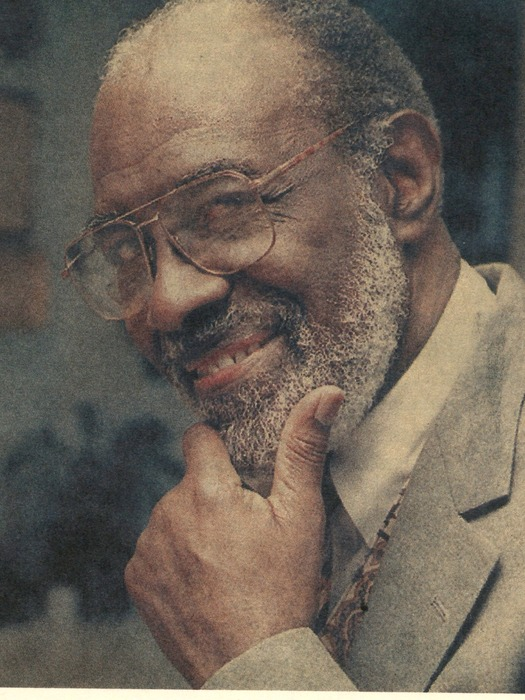
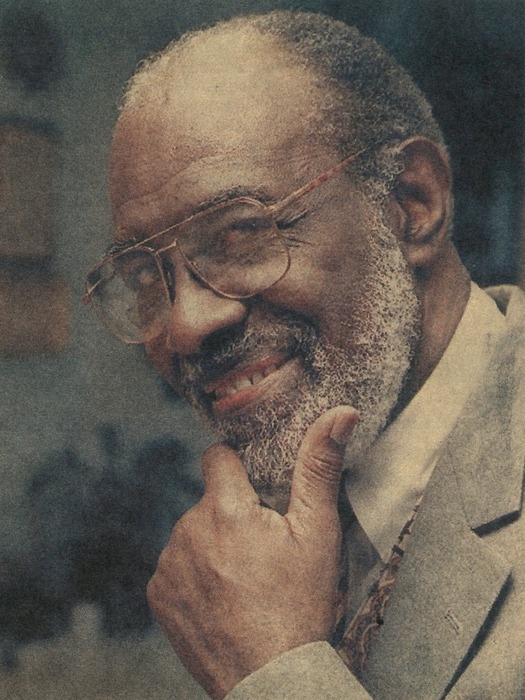
Deskew and recrop the Otis W. Smith portrait
The scan was 0.507 degrees off level, which I had not corrected -- I read
"rotate" as a 90-degree question, checked that the page was upright, and
stopped there rather than looking at whether it was straight.

The tilt is now measured rather than guessed: a line fitted to the top
edge of the printed photograph across 114 sample columns gives the angle,
and the page is rotated back by exactly that.

With the page level, the photograph's own rectangle can be detected
cleanly (1646x1919) instead of estimated by proportion, and a 3:4 crop
taken at its full height fits inside it. That fixes both faults in the
previous version at once: nothing is trimmed from the top of his head,
and no cream page margin shows along the bottom edge.

Claude-Session: https://claude.ai/code/session_01CrKCjcvYcFYWnikaLWCPiB

diff --git a/database/data/photos/CREDITS-silent-sentinels.md b/database/data/photos/CREDITS-silent-sentinels.md
@@ -221,6 +221,10 @@ Harriet Andrews** — no person-identified institutional portrait located.
   family publication, which is a far stronger identification than an
   uncaptioned web image.
 - **Processing:** page 1 of the PDF extracted at its embedded resolution
-  (3556×4543), the printed photograph cropped out of the page, the cream
-  page margin trimmed, and the result cropped to 525×700. No rotation was
-  needed — the page came out upright. No retouching.
+  (3556×4543), then DESKEWED. The page was scanned 0.507° off level,
+  measured by fitting a line to the top edge of the printed photograph
+  across 114 sample columns, and rotated back by that amount. The
+  photograph's rectangle was then re-detected on the levelled image
+  (1646×1919) and cropped to 525×700 at full height, so nothing is lost
+  from the top of his head and no page margin shows at the bottom. No
+  retouching.
